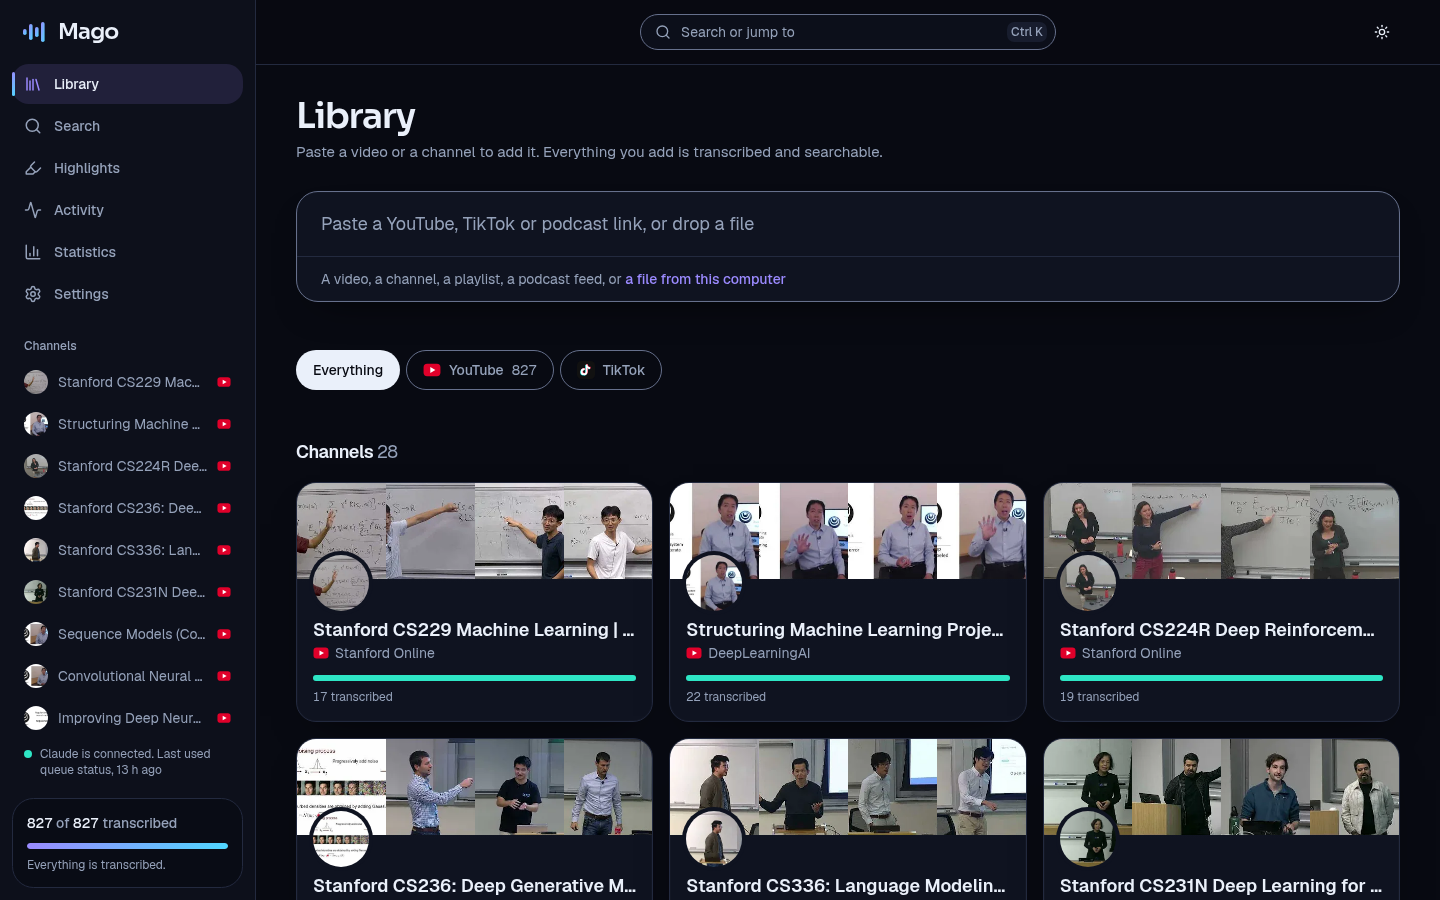
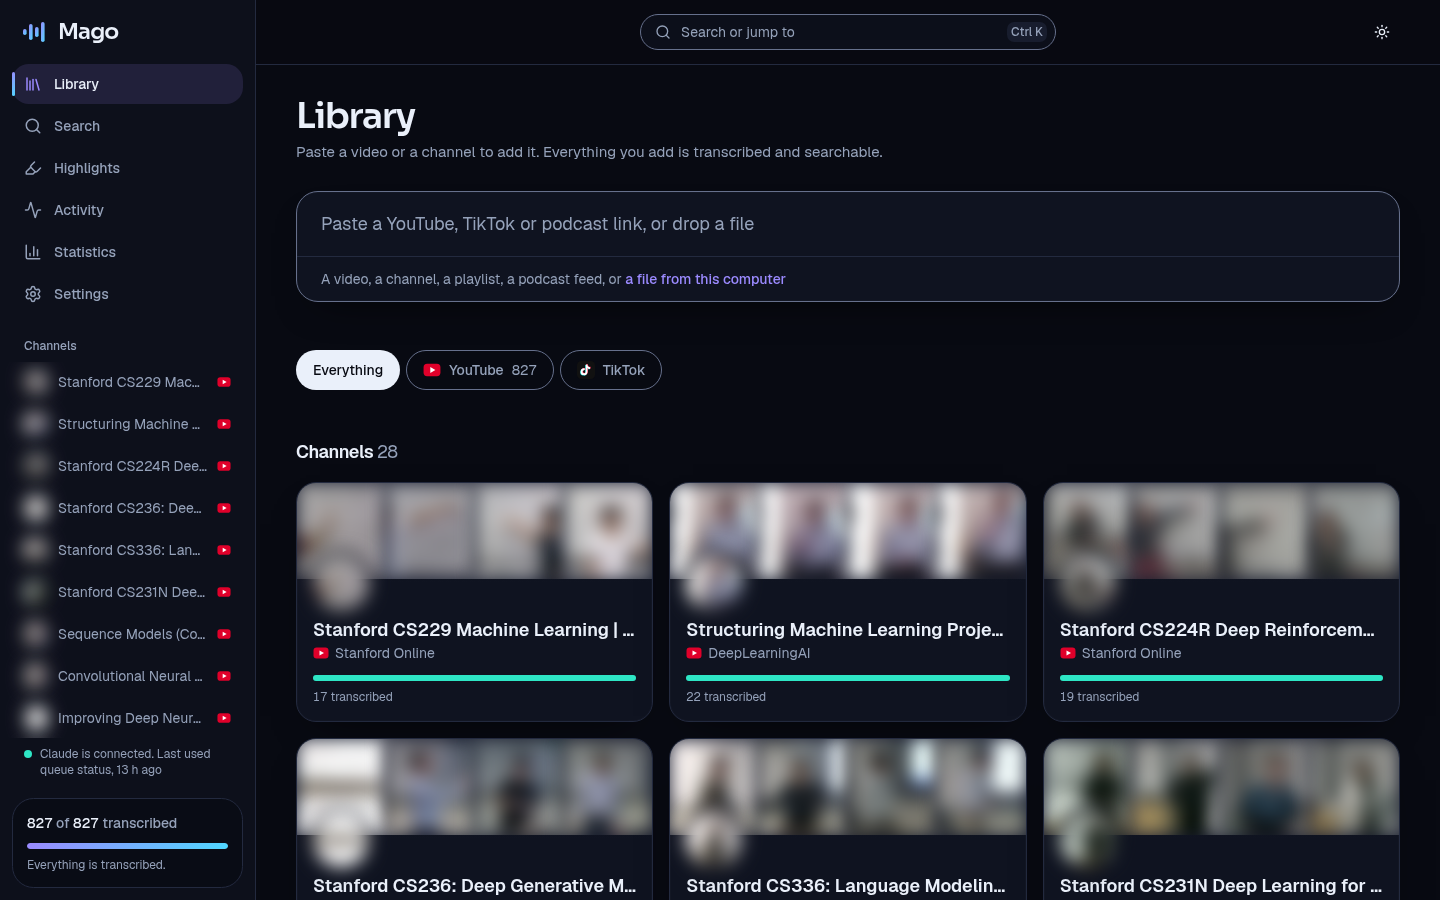
docs: MIT licence, demo clip, engineering decisions and how it was built
Claude-Session: https://claude.ai/code/session_019WvApSndoUKHS82KRhqMAT

Changed region(s): [[0.1875, 0.8089, 0.9688, 0.9956], [0.1875, 0.5289, 0.9688, 0.6844], [0.0, 0.4044, 0.0625, 0.84]]

diff --git a/README.md b/README.md
@@ -1,19 +1,28 @@
 # Mago
 
 [![CI](https://github.com/a-issaoui/mago/actions/workflows/ci.yml/badge.svg)](https://github.com/a-issaoui/mago/actions/workflows/ci.yml)
+[![License: MIT](https://img.shields.io/badge/license-MIT-blue.svg)](LICENSE)
+![Python 3.12](https://img.shields.io/badge/python-3.12-blue.svg)
+![Next.js 16](https://img.shields.io/badge/next.js-16-black.svg)
 
 **A private, local transcript library.** Paste a YouTube or TikTok link (one video, or a whole channel, playlist
 or profile), a podcast feed, or drop a file. Mago turns it into text with timestamps that you can read, search and
 export. Everything runs on your own computer: no accounts, no API keys, no cloud service.
 
-![The library](docs/screenshots/library.png)
+![Searching the library and opening a video at the moment found](docs/screenshots/demo.gif)
 
-| Read along with the video | Search what was said |
-| --- | --- |
-| ![A video with its transcript](docs/screenshots/video.png) | ![Search results](docs/screenshots/search.png) |
+| The library | Read along with the video | Search what was said |
+| --- | --- | --- |
+| ![The library](docs/screenshots/library.png) | ![A video with its transcript](docs/screenshots/video.png) | ![Search results](docs/screenshots/search.png) |
+
+Thumbnails are blurred here because they belong to the channels shown.
+
+**Stack:** Python 3.12, FastAPI, SQLite (FTS5), faster-whisper, yt-dlp, MCP · Next.js 16, React 19, TypeScript,
+Tailwind 4, shadcn/ui · pytest, Playwright, GitHub Actions.
 
 ## Contents
 
+- [Engineering decisions](#engineering-decisions)
 - [What it does](#what-it-does)
 - [Requirements](#requirements)
 - [Install](#install)
@@ -31,6 +40,32 @@ export. Everything runs on your own computer: no accounts, no API keys, no cloud
 - [Things to know](#things-to-know)
 - [Security](#security)
 - [Terms of service](#terms-of-service)
+- [How it was built](#how-it-was-built)
+- [License](#license)
+
+## Engineering decisions
+
+The choices that shaped the project, each with its reason. [docs/architecture.md](docs/architecture.md) has more.
+
+- **SQLite is the database, the job queue and the search engine.** One file in WAL mode replaces Postgres, Redis
+  and Elasticsearch. Jobs are claimed inside `BEGIN IMMEDIATE`, partial unique indexes make double-queuing
+  impossible, and FTS5 indexes are kept in step by triggers. The whole install is two commands.
+- **Measure before tuning.** Whisper was benchmarked on the target card in seven configurations. The usual advice
+  (`float16`) was the slow option on a GTX 1650; `int8_float32` with one beam was six times faster than the
+  starting point with under 1% difference in the text. The numbers are in
+  [Whisper models and speed](#whisper-models-and-speed).
+- **A refusal is about the address, not the video.** When a platform answers HTTP 429, retrying that video is
+  pointless. The worker pauses the whole platform with a doubling wait, releases the job without spending a
+  retry, and stores the strike count so a restart doesn't start knocking again.
+- **Live updates from one counter.** Database triggers bump a revision number on every visible change; the API
+  streams it over SSE. Changes made by the worker, the API or an AI client all reach the browser the same way,
+  with no event bus.
+- **No accounts, so the boundary is the machine.** Loopback-only sockets, a host allow-list against DNS rebinding,
+  and a required header on writes against cross-site requests. See [Security](#security).
+- **An AI client is a first-class user.** The MCP server exposes the library as 21 tools, with destructive ones
+  behind an explicit confirmation and transcripts marked as untrusted content.
+- **Tested where it counts.** 70 offline tests cover the queue, the API guards, link recognition and caption
+  parsing; 38 browser checks cover every screen at three widths; a separate suite runs against real links.
 
 ## What it does
 
@@ -69,7 +104,7 @@ won't work.
 ## Install
 
 ```bash
-git clone git@github.com:a-issaoui/mago.git
+git clone https://github.com/a-issaoui/mago.git
 cd mago
 bin/mago setup
 ```
@@ -372,3 +407,13 @@ delete the library and make it download things.
 Downloading in bulk is against the terms of service of YouTube and TikTok. Mago is a private research tool: use
 it for your own study, respect the rights of the people whose work you transcribe, and do not offer it as a
 public service.
+
+## How it was built
+
+Mago was built with [Claude Code](https://claude.com/claude-code), an AI programming tool, which wrote the code.
+I set the goals, made the product and design decisions, and reviewed the results in the running app. The commit
+history records that process, session by session.
+
+## License
+
+[MIT](LICENSE)
